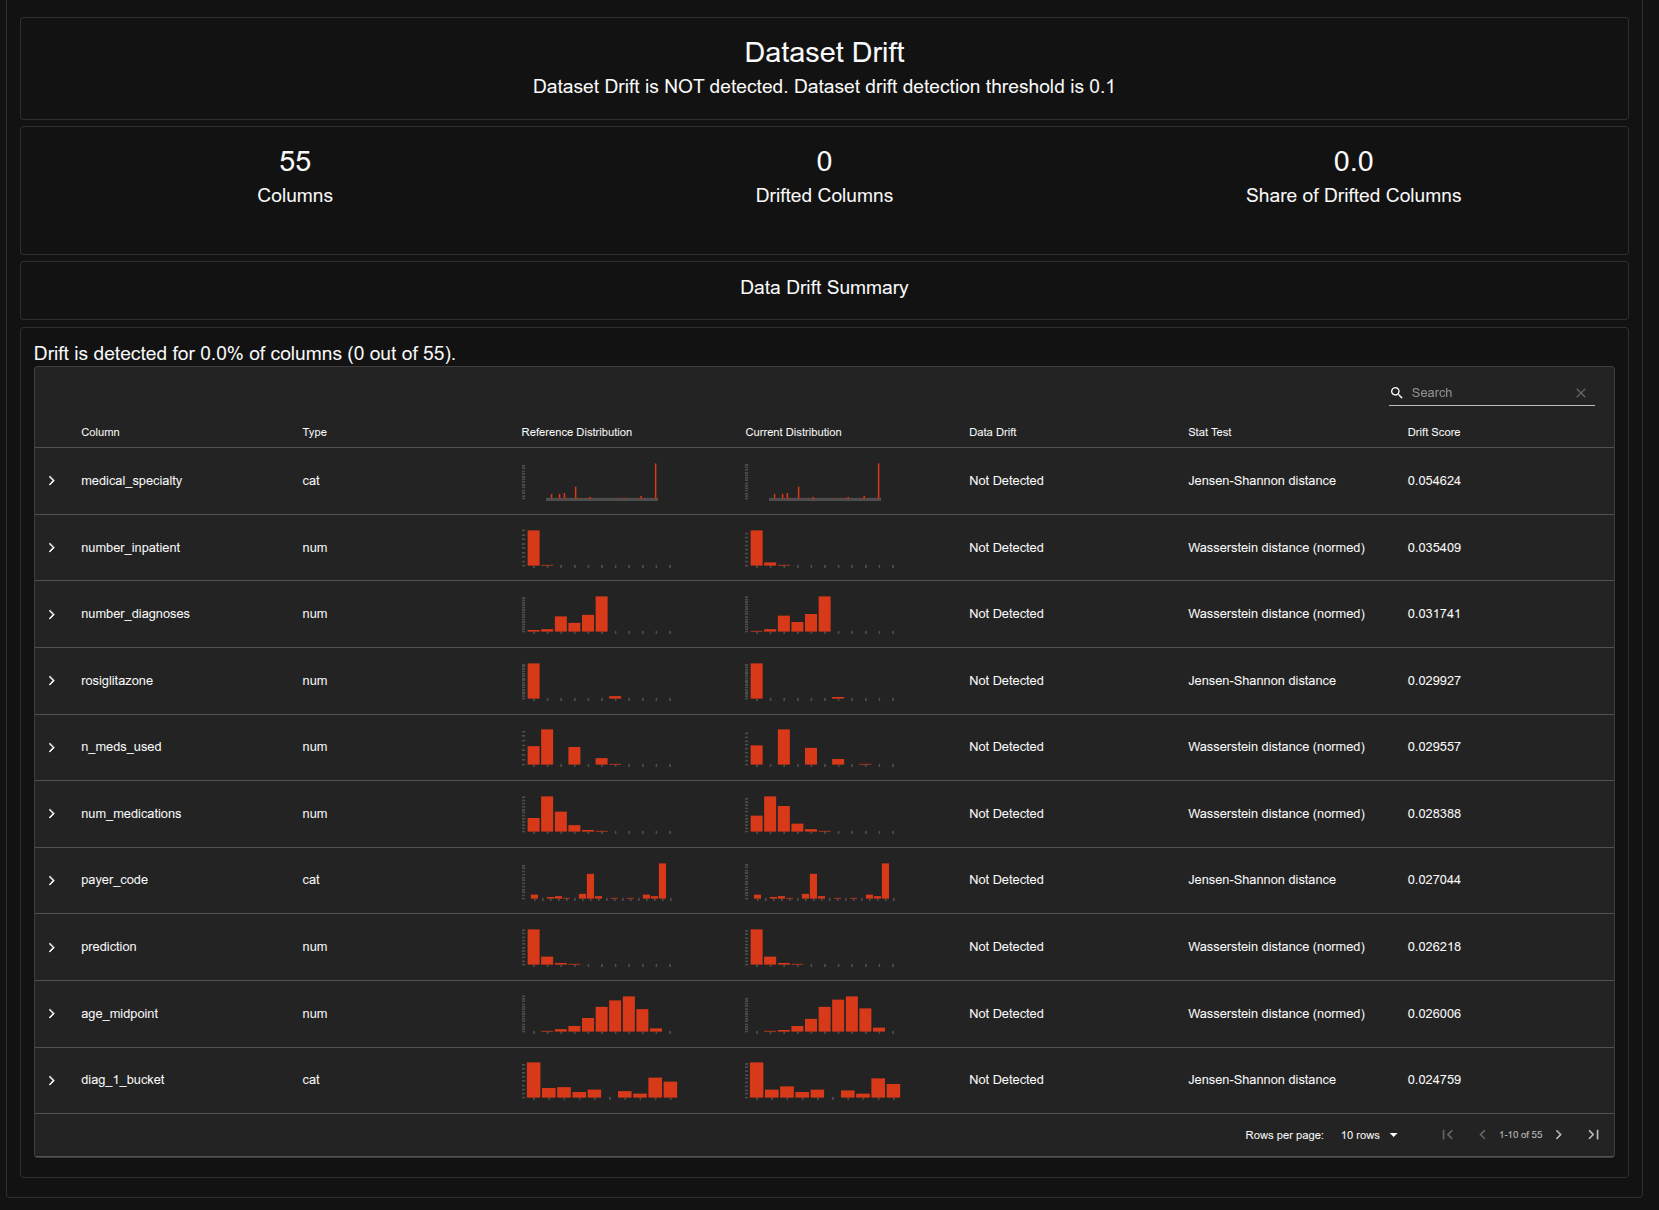
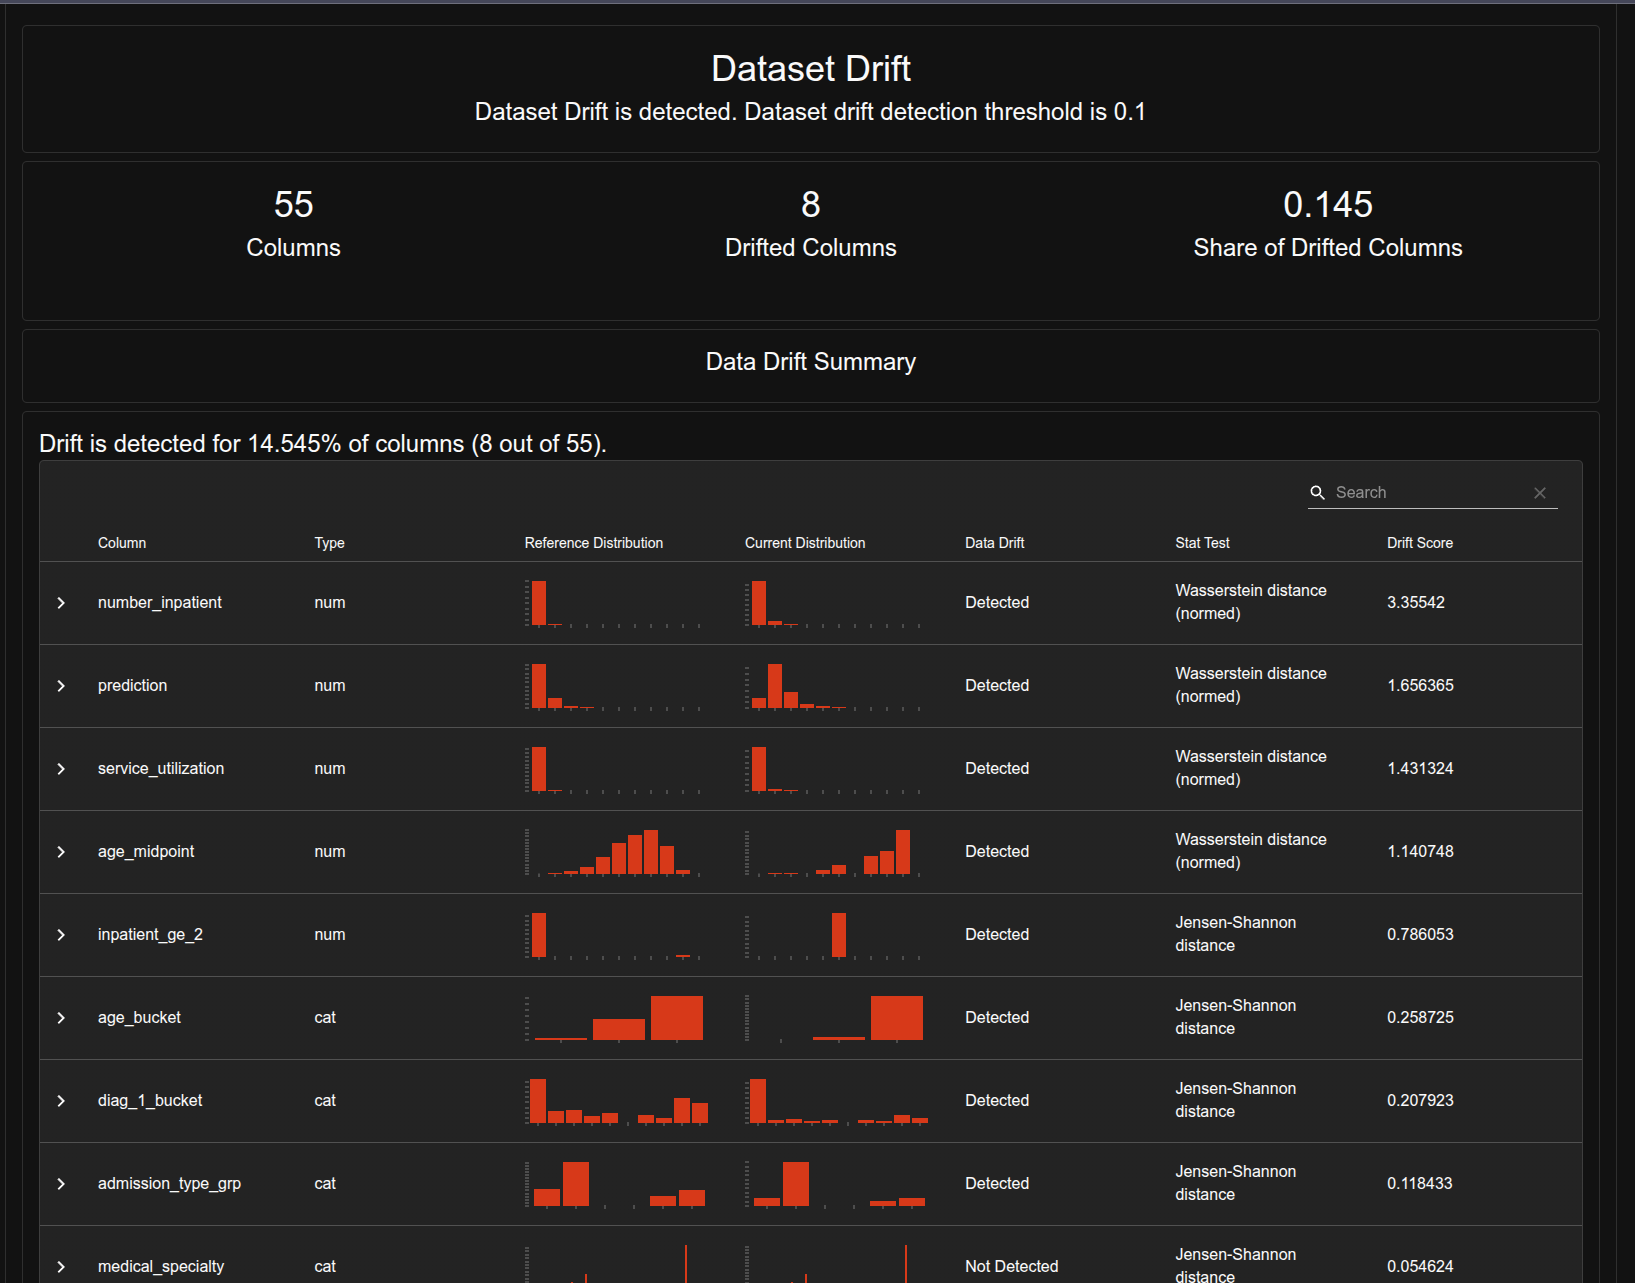
docs: swap drift screenshot to the drift-DETECTED (shifted) view
Replace evidently-drift.png with the shifted-batch report (dataset drift detected, 8/55
columns, share 0.145 — number_inpatient, service_utilization, age_midpoint, diag_1_bucket
and the prediction flagged) and update the caption + screenshots README accordingly.

diff --git a/README.md b/README.md
@@ -138,11 +138,12 @@ A green GitHub Actions run: schema tests → image build → container tests (go
 **0.074595**) → push to **Amazon ECR**. Every change is gated by the test suite.
 
 ### Drift detection — Evidently report
-![Evidently data-drift summary comparing a batch against the training reference](docs/screenshots/evidently-drift.png)
-An Evidently data-drift report (`src/monitoring/drift.py`). Shown here on the
-**in-distribution control batch** — the detector correctly reports **no drift** (0 of 55
-columns), proving it doesn't cry wolf; on the deliberately **shifted** batch it fires
-(dataset drift detected). Both reports: `reports/monitoring/drift_{control,shifted}.html`.
+![Evidently data-drift report: dataset drift detected on the shifted batch — 8 of 55 columns](docs/screenshots/evidently-drift.png)
+An Evidently data-drift report (`src/monitoring/drift.py`) on the deliberately **shifted**
+batch — **dataset drift detected**, 8 of 55 columns (share 0.145): the shifted features
+(`number_inpatient`, `service_utilization`, `age_midpoint`, `diag_1_bucket`, …) **and the
+prediction** are flagged, while the in-distribution **control** batch stays silent. Both
+reports: `reports/monitoring/drift_{control,shifted}.html`.
 
 > *A Grafana dashboard screenshot (`grafana-dashboard.png`) can be added here too — the
 > dashboard is provisioned in `deploy/grafana/`; bring the stack up and snap it.*

diff --git a/docs/screenshots/README.md b/docs/screenshots/README.md
@@ -7,7 +7,7 @@ Images embedded by the root `README.md` "Screenshots / Evidence" section.
 | `ui-truth-vs-prediction.png` | Streamlit UI (dark) after **Load random patient** — the ✓/✗ truth-vs-prediction card, risk %, flag, top-factors chart. | ✅ present |
 | `mlflow-experiments.png` | MLflow Runs view for `readmission-30d` — runs + PR-AUC/ROC-AUC metric charts. | ✅ present |
 | `ci-green.png` | A green run of the **CI — test, build, push to ECR** workflow (all steps ✓). | ✅ present |
-| `evidently-drift.png` | An Evidently data-drift report (currently the *control* / no-drift view). | ✅ present |
+| `evidently-drift.png` | An Evidently data-drift report — the **shifted** batch, dataset drift detected (8/55 columns). | ✅ present |
 | `grafana-dashboard.png` | The Grafana *"Readmission API — Observability"* dashboard with panels populated. | ⬜ optional, not yet added |
 
 To add the Grafana shot: `podman compose up -d`, send a little `/predict` traffic, open